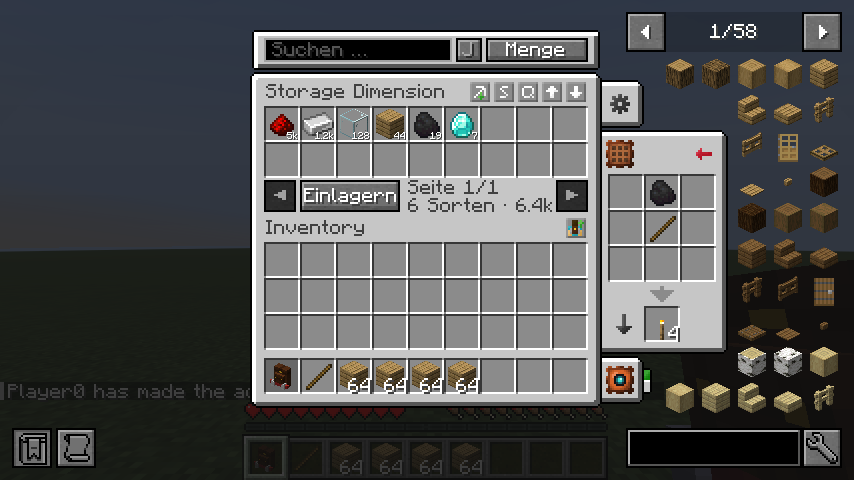
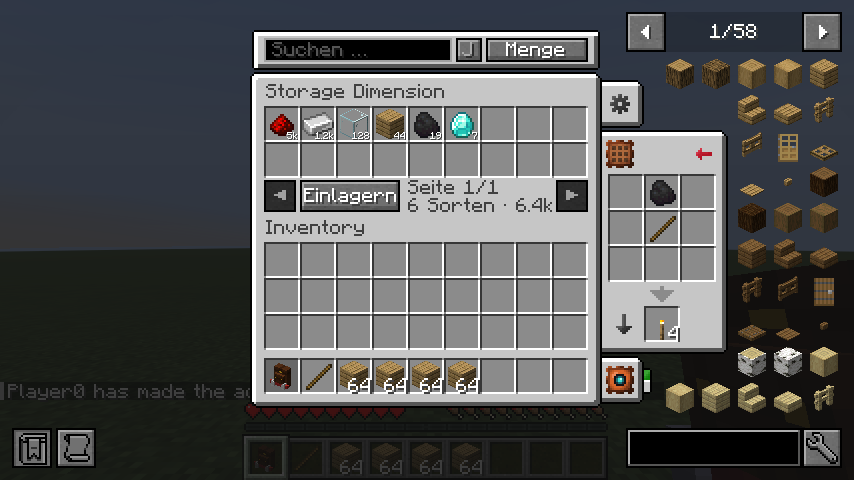
README: backpack ME view without the backpack's buttons
Claude-Session: https://claude.ai/code/session_01PrmjDFV55ANqJ3JywmcmfC

Changed region(s): [[0.548, 0.1562, 0.7002, 0.2188], [0.6393, 0.4375, 0.7002, 0.5]]

diff --git a/README.md b/README.md
@@ -162,7 +162,7 @@ Im Ordner `storagedim-tb/` liegt ein kleiner Zusatz-Mod. Er fügt ein echtes **M
 
 - Rezept (formlos): Leeres Upgrade (Traveler's Backpack), Enderauge, 2× Amethystscherbe, Redstoneblock. Mit dem Zusatz-Mod ergibt auch das normale ME-Upgrade-Rezept (mit Papier) dieses Upgrade. Es gibt dann nur noch ein ME-Upgrade: Es passt in den Upgrade-Slot und macht mit einem Bündel auch einen ME-Rucksack.
 - Upgrade in einen Upgrade-Slot des Rucksacks legen. Linksklick auf das ME-Symbol im Rucksack-Fenster zeigt den ME-Speicher **direkt im Rucksack-Fenster**, an Stelle des Rucksack-Inhalts. Crafting, die anderen Upgrades und die Einstellungen bleiben daneben sichtbar. Ein zweiter Linksklick zeigt wieder den Rucksack. Rechtsklick nimmt das Upgrade heraus.
-  - In der ME-Ansicht: Linksklick nimmt einen Stapel, Rechtsklick einen halben, Shift-Klick schiebt ihn ins Inventar. Ein Item vom Cursor oder Shift-Klick im eigenen Inventar lagert ein. Die Ansicht ist aufgebaut wie die ME-Kiste: Über dem Fenster liegt eine graue Leiste mit Suchfeld, „J“-Schalter (Suche an JEI koppeln) und Sortierung (Menge / A–Z). Unten sitzen ◀ und ▶ zum Blättern, „Einlagern“ (ganzes Inventar ohne Hotbar in den Speicher) sowie Seite, Sorten und Gesamtmenge.
+  - In der ME-Ansicht: Linksklick nimmt einen Stapel, Rechtsklick einen halben, Shift-Klick schiebt ihn ins Inventar. Ein Item vom Cursor oder Shift-Klick im eigenen Inventar lagert ein. Die Ansicht ist aufgebaut wie die ME-Kiste: Über dem Fenster liegt eine graue Leiste mit Suchfeld, „J“-Schalter (Suche an JEI koppeln) und Sortierung (Menge / A–Z). Unten sitzen ◀ und ▶ zum Blättern, „Einlagern“ (ganzes Inventar ohne Hotbar in den Speicher) sowie Seite, Sorten und Gesamtmenge. Die Sortier-Knöpfe des Rucksacks sind in der ME-Ansicht ausgeblendet.
 
   ![ME-Ansicht im Rucksack mit Suchleiste, Sortierung und Knöpfen wie in der ME-Kiste](docs/screenshots/rucksack-me-suche.png)
 
